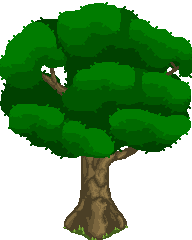
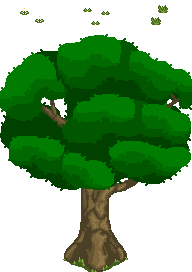
feat: new vegetation graphics

diff --git a/src/core/vegetation.ts b/src/core/vegetation.ts
@@ -16,10 +16,20 @@ type VegetationSpriteData = {
 }
 
 const VEGETATION_NOISE = {
-	'oak-tree.png': 0.05
+	'dasiy.png': 0.08,
+	'oak-tree.png': 0.05,
+	'tall-grass.png': 0.2,
+	'short-grass.png': 0.3
 } as const
 
-const VEGETATION_DENSITY = 0.1
+const TREE_DENSITY = 0.03
+const PLANT_DENSITY = 0.1
+
+const collisions = ['oak-tree.png']
+
+export const hasVegetationCollisions = (vegetation: Sprite) => {
+	return collisions.includes(vegetation.texture.label ?? '')
+}
 
 const deterministicHash = (x: number, y: number, seed: number) => {
 	const PRIME_X = 374761393
@@ -59,10 +69,15 @@ export const generateVegetationNoise = (x: number, y: number) => {
 	return value
 }
 
-const getTextureFromPerlin = (perlin: number) => {
+const getTextureFromPerlin = (perlin: number, x: number, y: number) => {
 	let textureKey = ''
+	const shouldRender = deterministicHash(x, y, SEED)
+
 	for (const [key, value] of Object.entries(VEGETATION_NOISE)) {
-		if (perlin >= value) {
+		const isThree = key === 'oak-tree.png' && perlin <= value
+		const isPlant = key !== 'oak-tree.png' && perlin >= value
+
+		if ((isThree && shouldRender < TREE_DENSITY) || (isPlant && shouldRender < PLANT_DENSITY)) {
 			textureKey = key
 		}
 	}
@@ -82,8 +97,7 @@ export const convertVegetationPosToGround = (x: number, y: number) => {
 export const createVegetationSprite = (data: VegetationSpriteData) => {
 	const { xPosTile, yPosTile, perlin, row, col } = data
 
-	const shouldVegetationRender = deterministicHash(xPosTile, yPosTile, SEED)
-	if (isTileWater(perlin[row][col]) || shouldVegetationRender > VEGETATION_DENSITY) return null
+	if (isTileWater(perlin[row][col])) return null
 
 	const x = xPosTile
 	const y = yPosTile + TILE_HEIGHT * 0.75
@@ -91,7 +105,7 @@ export const createVegetationSprite = (data: VegetationSpriteData) => {
 	const worldPos = isoPosToWorldPos(xPosTile, yPosTile)
 
 	const vegetationNoise = generateVegetationNoise(worldPos.x, worldPos.y)
-	const textureData = getTextureFromPerlin(vegetationNoise)
+	const textureData = getTextureFromPerlin(vegetationNoise, xPosTile, yPosTile)
 
 	if (!textureData) return null
 

diff --git a/src/core/player.ts b/src/core/player.ts
@@ -13,7 +13,7 @@ import {
 	TILE_WIDTH_HALF
 } from './tiles'
 import { Chunk } from '../types/tiles'
-import { getVegetationFromGround } from './vegetation'
+import { getVegetationFromGround, hasVegetationCollisions } from './vegetation'
 
 export const PLAYER_WIDTH = 32
 export const PLAYER_HEIGHT = 64
@@ -217,6 +217,11 @@ const handlePlayerBounds = (player: Sprite) => {
 		for (let i = ground.length - 1; i >= 0; i--) {
 			const tile = ground[i]
 			const currentVegetation = getVegetationFromGround(chunk, tile.label)
+			const hasCollisions = currentVegetation
+				? hasVegetationCollisions(currentVegetation as Sprite)
+				: false
+
+			if (!hasCollisions) continue
 
 			if (currentVegetation && isPlayerBehindItem(currentVegetation, tile, player)) {
 				currentVegetation.alpha = 0.4
